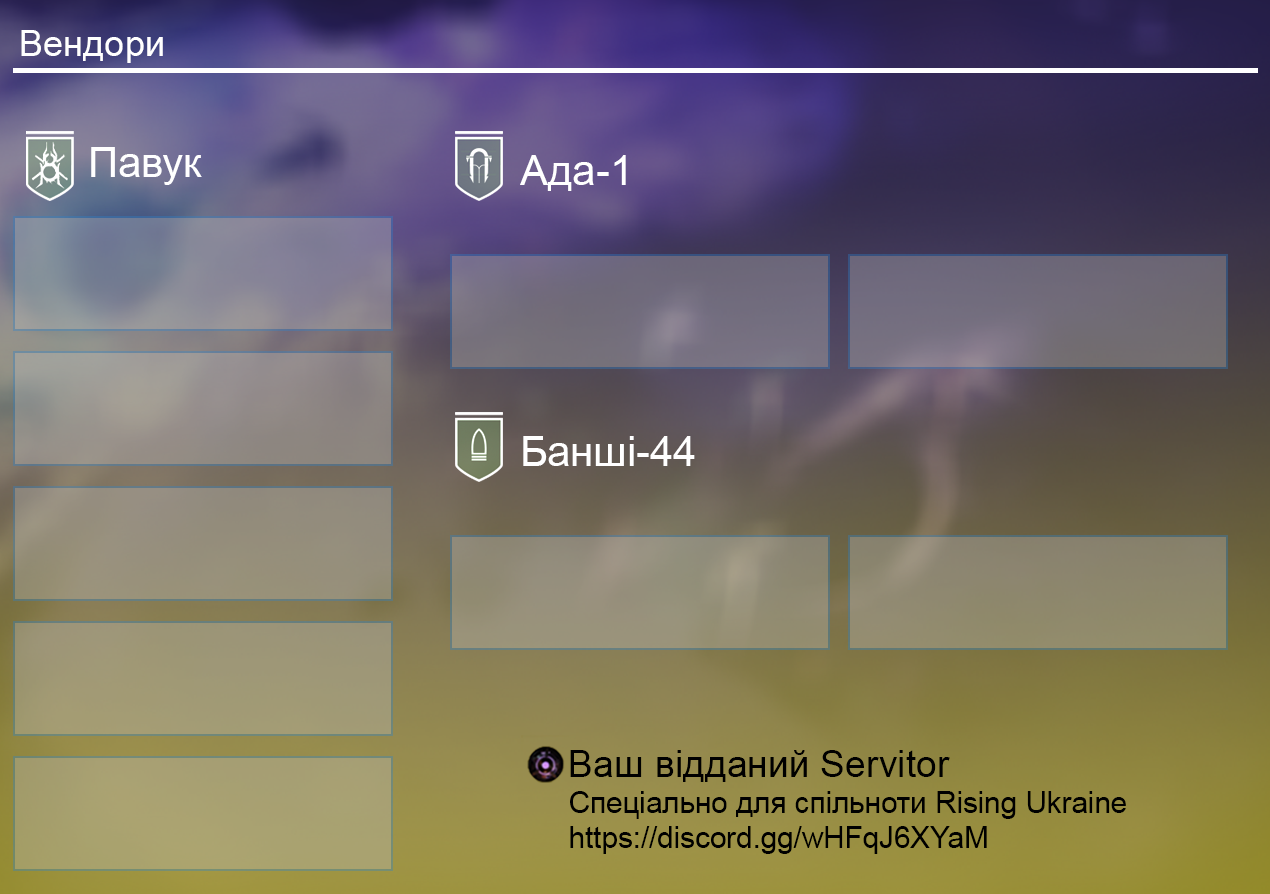
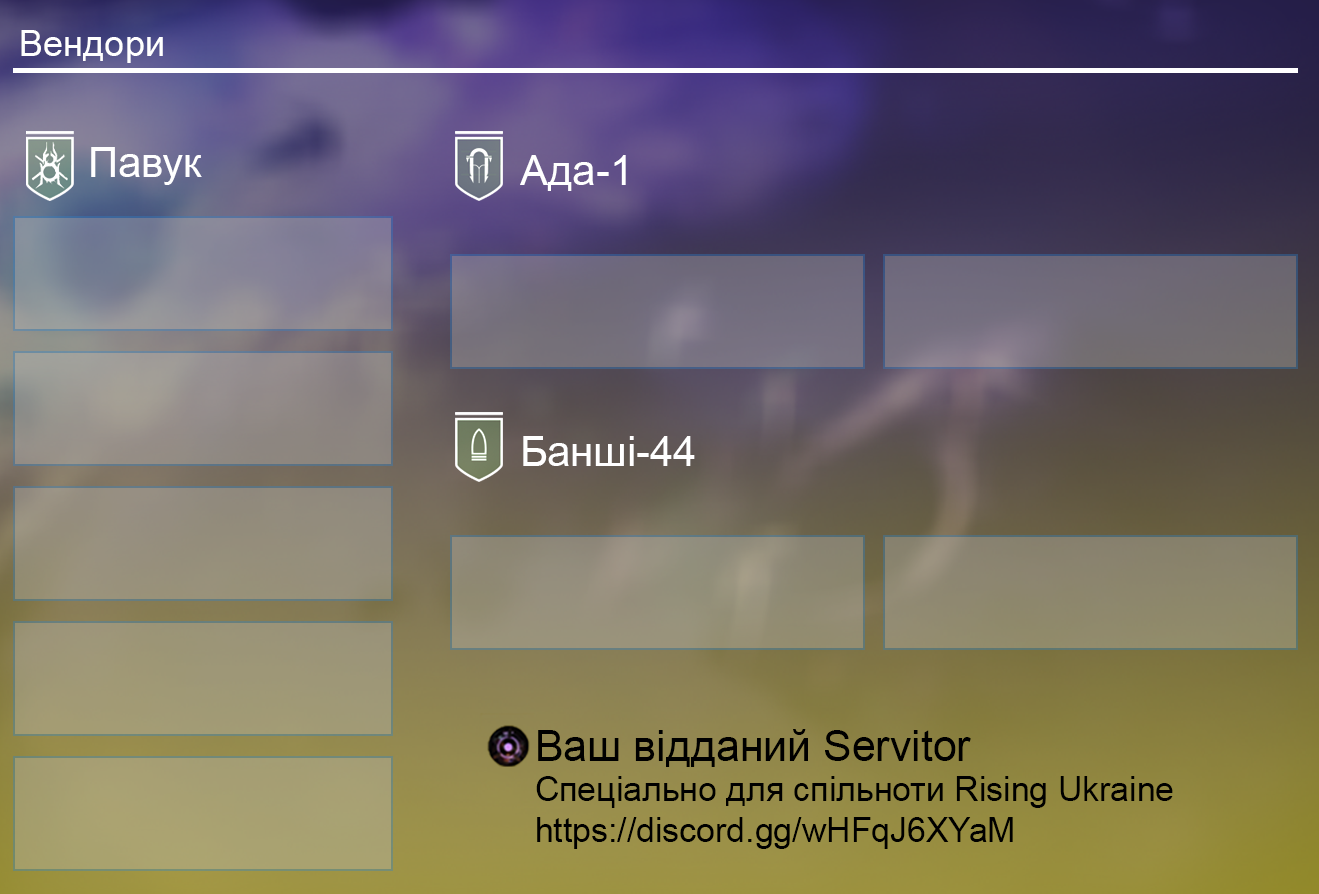
Updated parsers and image

diff --git a/Extensions/Parsers/XurParser.cs b/Extensions/Parsers/XurParser.cs
@@ -18,7 +18,7 @@ namespace Extensions.Parsers
         private BungieNetApiClient _apiClient;
         private bool _getLocation;
 
-        public XurParser(BungieNetApiClient apiClient, bool getLocation = false) =>
+        public XurParser(BungieNetApiClient apiClient, bool getLocation) =>
             (_apiClient, _getLocation) = (apiClient, getLocation);
 
         public async Task<XurInventory> GetInventoryAsync()

diff --git a/Extensions/Parsers/ResourcesParser.cs b/Extensions/Parsers/ResourcesParser.cs
@@ -114,7 +114,7 @@ namespace Extensions.Parsers
                 {
                     await drawItemAsync(item, loader, image, font, x, y);
 
-                    x += 398;
+                    x += 433;
                 }
 
                 y += 281;
